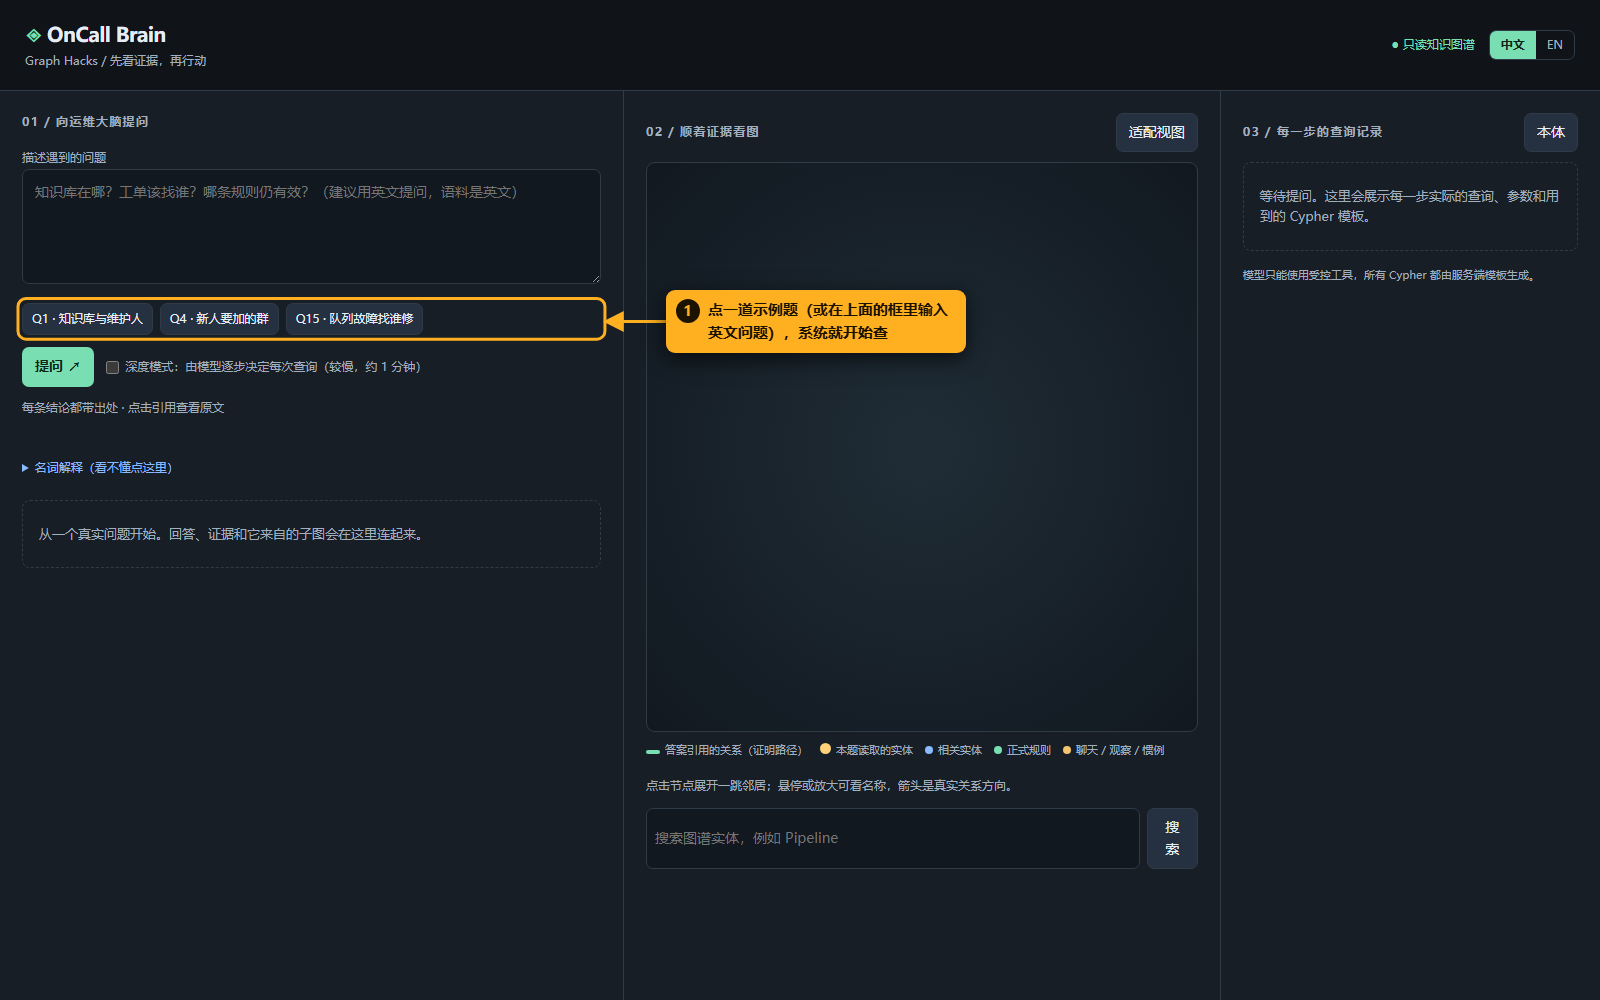
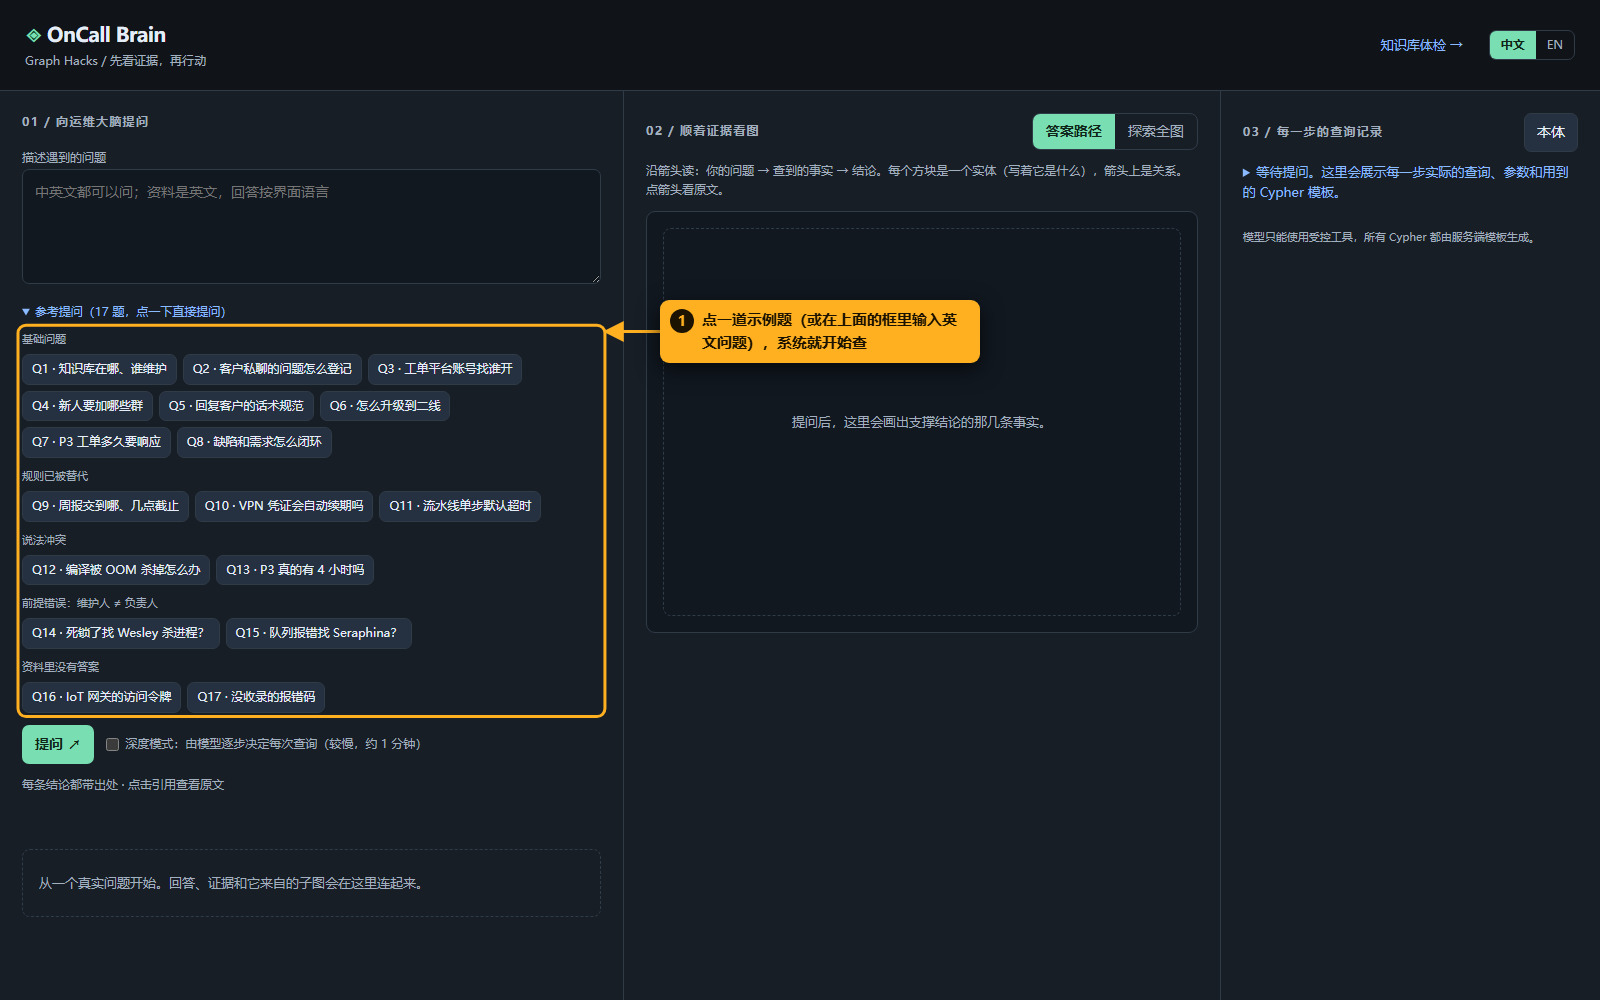
Walkthrough: retake screenshots against current UI

diff --git a/scripts/walkthrough_shots.py b/scripts/walkthrough_shots.py
@@ -78,8 +78,8 @@ def edge_xy(pg, which=0, predicate=None):
       return [b.left + m.x, b.top + m.y]; }}""")
 
 
-def shot(pg, name, items):
-    pg.evaluate("() => { window.scrollTo(0,0); document.querySelectorAll('section').forEach(x => x.scrollTop = 0); }")
+def shot(pg, name, items, scroll_y=0):
+    pg.evaluate(f"() => {{ window.scrollTo(0, {scroll_y}); document.querySelectorAll('section').forEach(x => x.scrollTop = 0); }}")
     pg.evaluate(OVERLAY_JS, items)
     pg.wait_for_timeout(250)
     pg.screenshot(path=str(OUT / name))
@@ -89,6 +89,7 @@ def shot(pg, name, items):
 
 def ask(pg, question=None, example=None):
     if example:
+        pg.evaluate("() => { const b = document.querySelector('.examples-box'); if (b) b.open = true; }")
         pg.locator(f'[data-example="{example}"]').click()
     else:
         pg.fill("#question", question)
@@ -103,18 +104,17 @@ with sync_playwright() as p:
     pg.goto(URL, wait_until="networkidle")
     pg.evaluate("() => localStorage.setItem('oncall-lang','zh')")
     pg.reload(wait_until="networkidle")
-    g = rect(pg, "#graph")  # graph pane, used as free space for labels
 
     # 1. Ask
     shot(pg, "01-ask.png", [
-        {"n": 1, "sel": ".examples", "text": "点一道示例题（或在上面的框里输入英文问题），系统就开始查", "lx": g[0] + 20, "ly": 290, "w": 300},
+        {"n": 1, "sel": ".examples", "text": "点一道示例题（或在上面的框里输入英文问题），系统就开始查", "lx": 660, "ly": 300, "w": 320},
     ])
 
     # 2. The conclusion
     ask(pg, example="Q1")
     shot(pg, "02-conclusion.png", [
-        {"n": 1, "sel": ".conclusion", "text": "这就是答案：知识库在哪、谁维护、技术问题找谁", "lx": g[0] + 20, "ly": 560, "w": 300},
-        {"n": 2, "sel": "#answer-status", "text": "状态「可直接照做」：资料里有明确答案，没有冲突或过期", "lx": g[0] + 20, "ly": 420, "w": 300},
+        {"n": 1, "sel": ".conclusion", "text": "这就是答案：知识库在哪、谁维护、技术问题找谁", "lx": 650, "ly": 800, "w": 320},
+        {"n": 2, "sel": "#activity", "text": "状态「可直接照做」：资料里有明确答案，没有冲突或过期", "lx": 650, "ly": 100, "w": 320},
     ])
 
     # 3. Why: click a citation, read the source line
@@ -123,43 +123,70 @@ with sync_playwright() as p:
         cite = pg.locator("#answer .cite-n[data-matched='true']").first
     cite.click()
     pg.wait_for_timeout(600)
-    pg.evaluate("() => { const d = document.getElementById('evidence-dialog'); d.close(); d.show(); Object.assign(d.style, {position:'fixed', top:'300px', left:'640px', margin:0, width:'560px', zIndex:5000}); }")
+    pg.evaluate("() => { const d = document.getElementById('evidence-dialog'); d.close(); d.show(); Object.assign(d.style, {position:'fixed', top:'280px', left:'640px', margin:0, width:'560px', zIndex:5000}); }")
     pg.wait_for_timeout(300)
     shot(pg, "03-source.png", [
-        {"n": 1, "sel": ".conclusion .cite-n", "text": "凭什么这么说？点结论里的小编号", "lx": 330, "ly": 760, "w": 260},
-        {"n": 2, "sel": "#evidence-text", "text": "弹出原文那一行：来自哪份文件第几行，标着是正式文档还是聊天", "lx": 640, "ly": 180, "w": 330},
+        {"n": 1, "sel": ".conclusion .cite-n", "text": "凭什么这么说？点结论里的小编号", "lx": 250, "ly": 440, "w": 280},
+        {"n": 2, "sel": "#evidence-text", "text": "弹出原文那一行：来自哪份文件第几行，标着是正式文档还是聊天", "lx": 640, "ly": 160, "w": 330},
     ])
     pg.locator("#close-dialog").click()
     pg.wait_for_timeout(1800)  # let the focus flash end
 
-    # 4. The graph: lit edges are the basis of the conclusion
-    pg.evaluate("() => { const c = cy.$('.cited'); if (c.length) { cy.fit(c.connectedNodes(), 70); cy.zoom(Math.min(1.4, Math.max(0.9, cy.zoom()))); cy.center(c.connectedNodes()); } }")
+    # 4. The graph: switch to explore tab to see Cytoscape graph with cited edges
+    pg.locator('[data-view="explore"]').click()
+    pg.wait_for_timeout(500)
+    pg.evaluate("() => { const c = cy.$('.cited'); if (c.length) { cy.fit(c, 70); } }")
     pg.wait_for_timeout(400)
-    xy = edge_xy(pg)
-    items = [{"n": 2, "sel": "#graph-summary", "text": "变暗的是查过但没用上的内容；亮起几条线，结论就引用了几条关系", "lx": g[0] + 20, "ly": g[3] - 80, "w": 330}]
+    g = rect(pg, "#graph")
+    xy = edge_xy(pg, predicate="MAINTAINED_BY")
+    items4 = [{"n": 2, "sel": "#graph-summary", "text": "变暗的是查过但没用上的内容；亮起几条线，结论就引用了几条关系", "lx": g[0] + 20, "ly": g[3] - 70, "w": 340}]
     if xy:
-        items.insert(0, {"n": 1, "xy": xy, "text": "亮绿色的线 = 结论的依据。线上写着关系名，例如「这份知识库由谁维护」", "lx": g[0] + 20, "ly": g[1] + 20, "w": 330})
-    shot(pg, "04-graph-proof.png", items)
+        items4.insert(0, {"n": 1, "xy": xy, "text": "亮绿色的线 = 结论的依据。线上写着关系名，例如「这份知识库由谁维护」", "lx": g[0] + 20, "ly": g[1] + 20, "w": 330})
+    shot(pg, "04-graph-proof.png", items4)
 
-    # 5. How it was found: the query trace
+    # 5. How it was found: open trace box
+    pg.evaluate("() => { document.getElementById('trace-box').open = true; }")
+    pg.wait_for_timeout(300)
     t = rect(pg, "#trace")
     shot(pg, "05-how.png", [
-        {"n": 1, "sel": "#trace .trace-card:nth-child(1)", "text": "第一步：按问题里的关键词，先在原始资料里找相关的几行", "lx": t[0] - 340, "ly": 170, "w": 300},
-        {"n": 2, "sel": "#trace .trace-card:nth-child(2)", "text": "第二步：Jev 给图里的候选实体打分，挑出值得读的几个（括号里是分数）", "lx": t[0] - 340, "ly": 420, "w": 300},
-        {"n": 3, "sel": "#trace .trace-card:nth-child(3)", "text": "第三步：读这些实体的全部关系和出处，最后才让大模型写结论", "lx": t[0] - 340, "ly": 760, "w": 300},
+        {"n": 1, "sel": "#trace .trace-card:nth-of-type(1)", "text": "第一步：按问题里的关键词，先在原始资料里找相关的几行", "lx": t[0] - 340, "ly": 170, "w": 300},
+        {"n": 2, "sel": "#trace .trace-card:nth-of-type(2)", "text": "第二步：Jev 给图里的候选实体打分，挑出值得读的几个（括号里是分数）", "lx": t[0] - 340, "ly": 420, "w": 300},
+        {"n": 3, "sel": "#trace .trace-card:nth-of-type(3)", "text": "第三步：读这些实体的全部关系和出处，最后才让大模型写结论", "lx": t[0] - 340, "ly": 720, "w": 300},
     ])
+    pg.evaluate("() => { document.getElementById('trace-box').open = false; }")
 
     # 6. Trap question
     ask(pg, question=Q14)
-    pg.evaluate("() => { const c = cy.$('.cited'); if (c.length) { cy.fit(c.connectedNodes(), 70); cy.zoom(Math.min(1.4, Math.max(0.9, cy.zoom()))); cy.center(c.connectedNodes()); } }")
+    pg.locator('[data-view="explore"]').click()
+    pg.wait_for_timeout(500)
+    pg.evaluate("() => { const c = cy.$('.cited'); if (c.length) { cy.fit(c, 70); } }")
     pg.wait_for_timeout(400)
-    xy = edge_xy(pg, predicate="TECH_LEAD_OF")
-    items = [
-        {"n": 1, "sel": "#question", "text": "这个问题本身就错了：它默认 Wesley 能去修服务器", "lx": g[0] + 20, "ly": 175, "w": 300},
-        {"n": 2, "sel": ".conclusion", "text": "系统没有顺着问题答，而是指出前提错误：别找 Wesley，找 Colin Marsh", "lx": g[0] + 20, "ly": 640, "w": 300},
-        {"n": 3, "sel": "#answer-status", "text": "所以状态是「说法冲突 / 问题前提不成立」", "lx": g[0] + 20, "ly": 330, "w": 300},
+    g = rect(pg, "#graph")
+    xy = edge_xy(pg, predicate="HOLDS_ROLE")
+    items6 = [
+        {"n": 1, "sel": "#question", "text": "这个问题本身就错了：它默认 Wesley 能去修服务器", "lx": g[0] + 20, "ly": 100, "w": 320},
+        {"n": 2, "sel": ".conclusion", "text": "系统没有顺着问题答，而是指出前提错误：别找 Wesley，找 Colin Marsh", "lx": g[0] + 20, "ly": 650, "w": 320},
+        {"n": 3, "sel": "#activity", "text": "所以状态是「说法冲突 / 问题前提不成立」", "lx": g[0] + 20, "ly": 220, "w": 320},
     ]
     if xy:
-        items.append({"n": 4, "xy": xy, "text": "依据在图上：Colin 和模块之间是「技术负责人」（TECH_LEAD_OF）关系；Wesley 只有「维护文档」关系", "lx": g[2] - 330, "ly": 480, "w": 310})
-    shot(pg, "06-trap.png", items)
+        items6.append({"n": 4, "xy": xy, "text": "依据在图上：Colin 是 Tier 2 Pipeline Specialist（HOLDS_ROLE 角色），属于二线技术负责人；Wesley 只有维护文档关系", "lx": g[2] - 340, "ly": 380, "w": 330})
+    shot(pg, "06-trap.png", items6)
+
+    # 7. Who actually fixed it card (Expertise card)
+    pg.locator('[data-view="path"]').click()
+    pg.wait_for_timeout(300)
+    shot(pg, "07-who-fixed.png", [
+        {"n": 1, "sel": ".expertise-card", "text": "负责人 vs 实际修过的人：系统沿「工单→模块」与「工单→处理人」穿透分析，找出真正处理过工单的人与工单号", "lx": 650, "ly": 760, "w": 330},
+        {"n": 2, "sel": "#status-explanation", "text": "状态解释抽屉：详细展开系统判定「冲突」的依据与来源级别（正式规则 > 惯例 > 聊天）", "lx": 650, "ly": 480, "w": 330},
+    ], scroll_y=220)
+
+    # 8. Health page
+    pg.goto(f"{URL}/health", wait_until="networkidle")
+    pg.wait_for_timeout(500)
+    shot(pg, "08-health.png", [
+        {"n": 1, "sel": ".totals-grid", "text": "全库体检大盘：统计全库 494 个实体、824 条断言关系与 98 张关联工单", "lx": 25, "ly": 95, "w": 230},
+        {"n": 2, "sel": "#sec-single-points", "text": "单点风险排查：自动识别一人负责多个模块的关键人员，避免请假无人兜底", "lx": 25, "ly": 320, "w": 230},
+        {"n": 3, "sel": "#sec-owner-handlers", "text": "负责人 vs 实际处理人脱节：扫描负责人从未处理过工单的模块，识别沟通断层", "lx": 25, "ly": 740, "w": 230},
+    ])
+
     b.close()

diff --git a/docs/walkthrough/README.md b/docs/walkthrough/README.md
@@ -76,7 +76,7 @@ Colin Marsh ──是技术负责人──▶ MOD-01
 1. **这个问题本身就是错的**：它默认 Wesley 能去修服务器。
 2. **系统没有顺着问题去答**，而是指出前提不对：不要找 Wesley，应该找 Pipeline 的技术负责人 Colin Marsh，并按流程把工单转过去。
 3. 所以答案状态是「说法冲突 / 问题前提不成立」（conflict）。
-4. **依据在图上**：Colin 和 Pipeline 模块之间是「技术负责人」（TECH_LEAD_OF）关系；Wesley 和知识库之间只是「维护文档」（MAINTAINED_BY）关系。
+4. **依据在图上**：Colin 担任 Tier 2 Pipeline Specialist（二线排障技术负责人，`HOLDS_ROLE` 关系）；Wesley 和知识库之间只是「维护文档」（`MAINTAINED_BY`）关系。
 
 **为什么这件事只有图能做好**：在资料里，Wesley 的名字总是出现在 Pipeline 文档旁边。如果只按文字相似度去搜，很容易得出「Pipeline 的事找 Wesley」。图把「维护文档」和「技术负责」记成两种不同的关系，并且规定前者永远不能当作排障对象，所以不会犯这个错。
 
@@ -90,7 +90,28 @@ Colin Marsh ──是技术负责人──▶ MOD-01
 
 ---
 
-## 三、名词解释
+## 三、穿透现网工单：负责人 vs 实际修过的人
+
+![负责人与实际处理人](07-who-fixed.png)
+
+1. **「负责人 vs 实际修过的人」卡片**：有些模块名义上有技术负责人，但他可能从未实际处理过现网工单。系统沿「工单 → 涉及模块」和「工单 → 处理人」穿透分析，找出真实处理过该模块工单的人员与对应工单编号（如 Frank Stewart、Robert Coleman 等），标明「不在负责人名单」，为一线排障提供更实用的转派参考。
+2. **状态解释抽屉**：点击「这是什么意思？系统怎么判断的」，可展开系统给出「可直接照做」或「说法冲突」的具体规则、来源判定标准（正式规则 > 惯例 > 聊天）与核验逻辑。
+
+---
+
+## 四、全局健康度：知识库体检页面
+
+![知识库体检大盘](08-health.png)
+
+点击右上角「知识库体检 →」（`/health`），即可进入知识库健康度全景大盘：
+
+1. **全局资产大盘**：统计全库 494 个实体、824 条断言关系与 98 张关联工单。
+2. **单点风险排查**：自动扫描一人负责多个模块的关键人员（如 Arthur Vance 等），提前发现请假无人兜底的单点依赖。
+3. **负责人 vs 实际处理人脱节扫描**：全库排查所有「名义负责人从未处理过工单」的模块（如 MOD-01），帮助团队识别组织与文档脱节的潜在断层。
+
+---
+
+## 五、名词解释
 
 | 名词 | 意思 |
 |---|---|
@@ -111,7 +132,7 @@ Colin Marsh ──是技术负责人──▶ MOD-01
 
 ---
 
-## 四、两种模式
+## 六、两种模式
 
 | | 快速模式（默认） | 深度模式（勾选「深度模式」） |
 |---|---|---|
